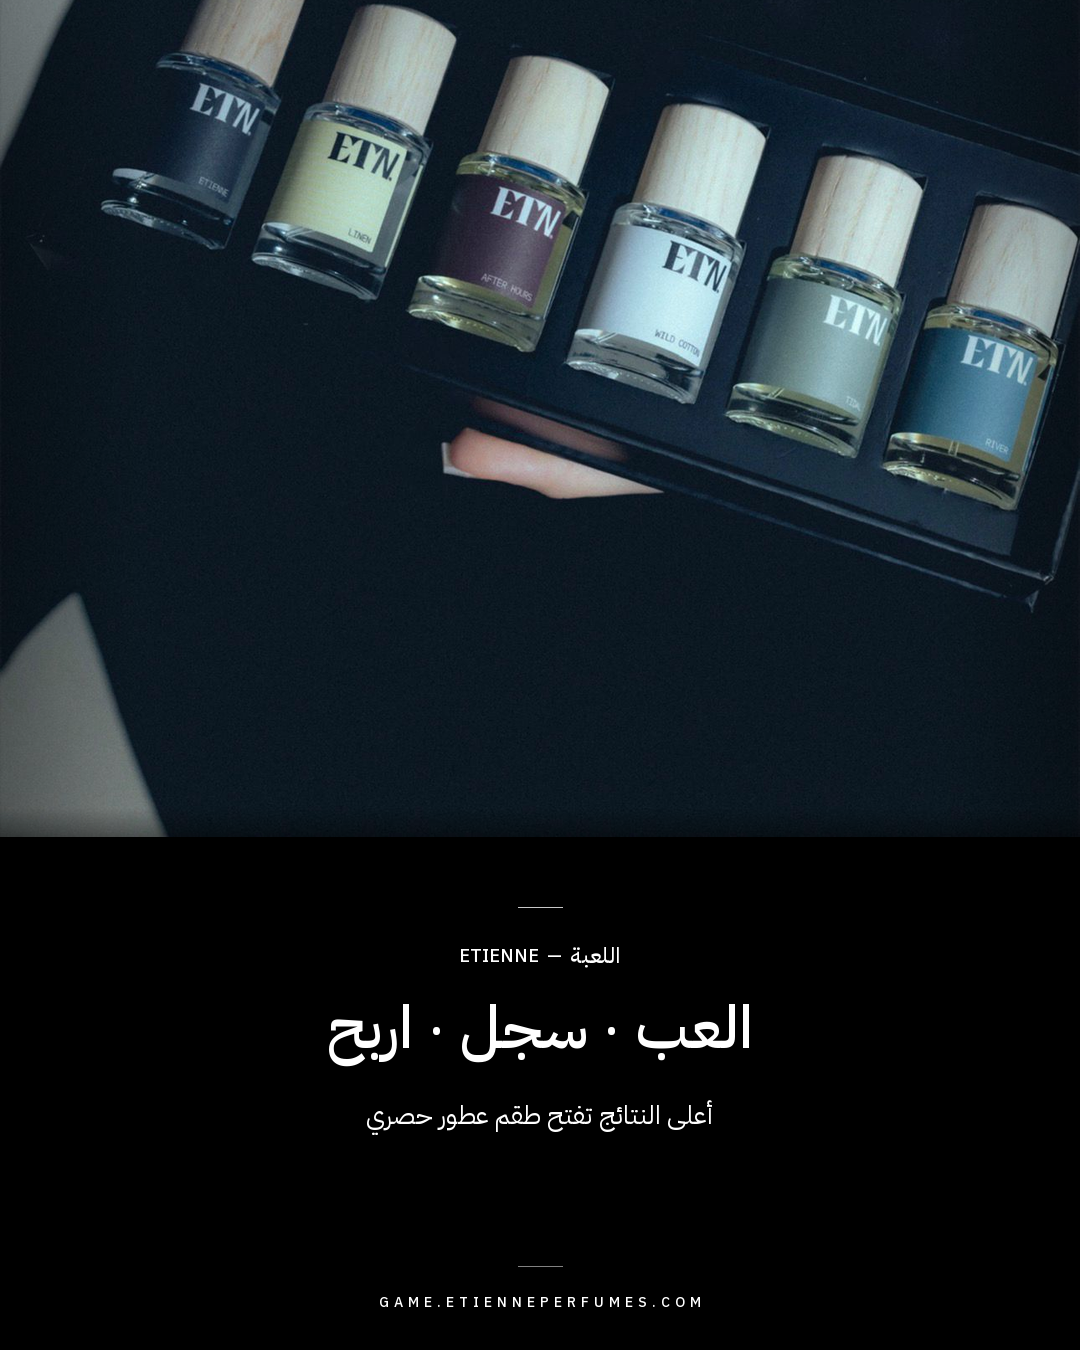
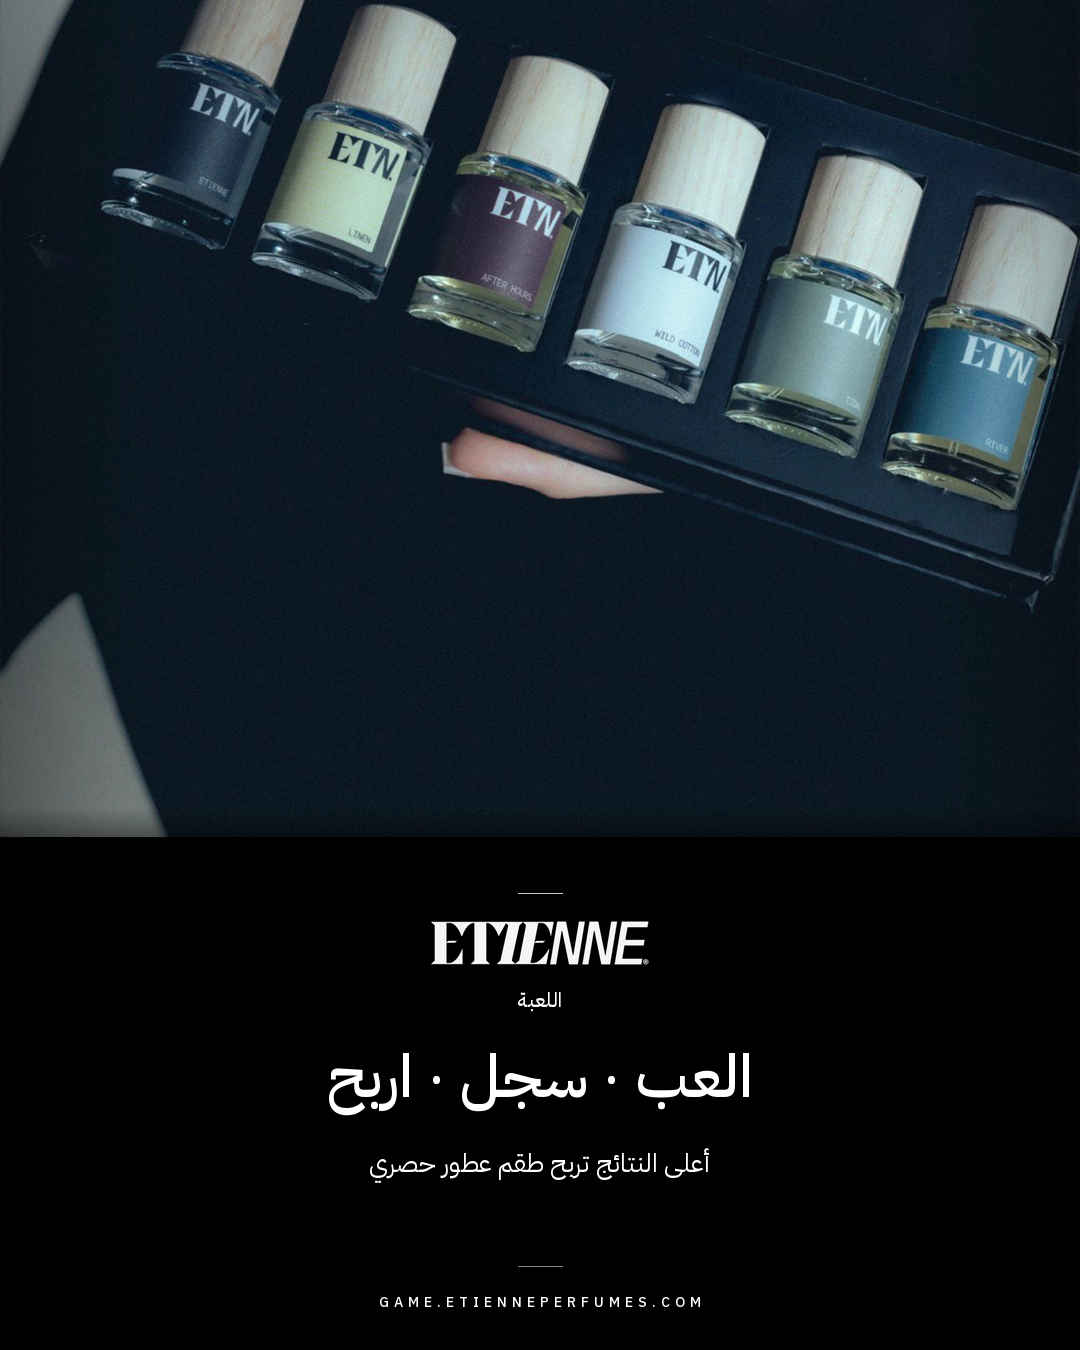
Hero post: drop in real ETIENNE wordmark + 'win' verb
Both EN and AR variants:
  - Replaced the letter-spaced 'ETIENNE' text in the eyebrow with
    the actual brand wordmark image (white-on-transparent PNG from
    /public/brand/). Logo gets its own moment in the type stack —
    centered, ~44px tall, sits below the divider as the dominant
    brand element. The Le Labo / Margiela aesthetic still holds; the
    real wordmark just makes the brand instantly recognisable at
    feed scale.
  - Subtle caption beneath the logo: 'THE GAME' / 'اللعبة' in Plex
    500 / 14-20px.
  - EN body verb tightened: 'Top scores unlock exclusive fragrance
    sets.' → 'Top scores win exclusive fragrance sets.'
  - AR body verb updated per direction: 'تفتح' → 'تربح'.
    'أعلى النتائج تربح طقم عطور حصري' — direct competitive verb,
    parallel to the EN.

Changed region(s): [[0.3056, 0.6533, 0.7028, 0.8711]]

diff --git a/tools/build-campaign-hero-ar.py b/tools/build-campaign-hero-ar.py
@@ -18,6 +18,7 @@ from pathlib import Path
 ROOT = Path(__file__).resolve().parents[1]
 PHOTO = ROOT / "tools" / "etienne-discovery-photo.jpeg"
 FONTS = ROOT / "tools" / "fonts"
+WORDMARK = ROOT / "public" / "brand" / "etienne-wordmark-white@2x.png"
 OUT = ROOT / "public" / "share" / "campaign-hero-ar.png"
 OUT.parent.mkdir(parents=True, exist_ok=True)
 
@@ -111,25 +112,32 @@ def draw_centered_ar_with_latin(d, ar_text: str, latin_text: str, y: int,
     d.text((x + lw + sw, y - 4), ar_shaped, font=ar_font, fill=fill)
 
 
+def paste_wordmark(img: Image.Image, target_height: int, top: int) -> None:
+    """Centre the ETIENNE wordmark PNG (white-on-transparent),
+    scaled to the requested height."""
+    mark = Image.open(WORDMARK).convert("RGBA")
+    mw, mh = mark.size
+    scale = target_height / mh
+    new_w = int(mw * scale)
+    mark = mark.resize((new_w, target_height), Image.LANCZOS)
+    img.paste(mark, ((W - new_w) // 2, top), mark)
+
+
 def main() -> None:
     img, photo_h = make_canvas()
-    d = ImageDraw.Draw(img, "RGBA")
 
-    rule_y = photo_h + 70
+    rule_y = photo_h + 56
+    d = ImageDraw.Draw(img, "RGBA")
     d.line([(W // 2 - 22, rule_y), (W // 2 + 22, rule_y)],
            fill=(255, 255, 255, 200))
 
-    # Eyebrow — keep brand wordmark in Latin Plex, "اللعبة" in Plex AR
-    draw_centered_ar_with_latin(
-        d,
-        "اللعبة",
-        "ETIENNE",
-        rule_y + 36,
-        plex_ar(500, 22),
-        plex(500, 18),
-        (255, 255, 255, 220),
-        sep="  —  ",
-    )
+    # ETIENNE wordmark image — replaces the letter-spaced text version
+    paste_wordmark(img, target_height=44, top=rule_y + 28)
+    d = ImageDraw.Draw(img, "RGBA")
+
+    # Eyebrow — اللعبة (Plex Arabic)
+    draw_centered(d, ar("اللعبة"),
+                  rule_y + 92, plex_ar(500, 20), (255, 255, 255, 220))
 
     # Hero — العب · سجّل · اربح
     # Plex Sans Arabic is missing U+00B7 (middle dot), U+2014 (em-dash)
@@ -152,7 +160,7 @@ def main() -> None:
     # First word sits on the RIGHT (read first in RTL), so paint from
     # the right edge inward.
     cursor = (W + total_w) // 2
-    hero_y = rule_y + 75
+    hero_y = rule_y + 138
     for i, word in enumerate(hero_words):
         ww = word_widths[i]
         cursor -= ww
@@ -161,13 +169,12 @@ def main() -> None:
             cursor -= sep_w
             d.text((cursor, hero_y + 6), sep, font=sep_font, fill=(255, 255, 255, 220))
 
-    # Body line — drop the trailing period (caused a stray glyph) and
-    # let the Arabic sentence stand on its own, parallel to the EN
-    # version's editorial cadence.
+    # Body line — تربح (win) replaces the previous تفتح (unlock) for a
+    # punchier competitive verb that mirrors the EN 'win' more directly.
     draw_centered(
         d,
-        ar("أعلى النتائج تفتح طقم عطور حصري"),
-        rule_y + 188,
+        ar("أعلى النتائج تربح طقم عطور حصري"),
+        rule_y + 250,
         plex_ar(400, 26),
         (255, 255, 255, 180),
     )

diff --git a/tools/build-campaign-hero.py b/tools/build-campaign-hero.py
@@ -25,6 +25,7 @@ from pathlib import Path
 ROOT = Path(__file__).resolve().parents[1]
 PHOTO = ROOT / "tools" / "etienne-discovery-photo.jpeg"
 FONTS = ROOT / "tools" / "fonts"
+WORDMARK = ROOT / "public" / "brand" / "etienne-wordmark-white@2x.png"
 OUT = ROOT / "public" / "share" / "campaign-hero-en.png"
 OUT.parent.mkdir(parents=True, exist_ok=True)
 
@@ -109,31 +110,47 @@ def draw_centered(d, text, y, font, fill, tracking_em: float = 0):
         x += widths[i] + extra
 
 
+def paste_wordmark(img: Image.Image, target_height: int, top: int) -> None:
+    """Centre the actual ETIENNE wordmark PNG (white-on-transparent),
+    scaled to the requested height."""
+    mark = Image.open(WORDMARK).convert("RGBA")
+    mw, mh = mark.size
+    scale = target_height / mh
+    new_w = int(mw * scale)
+    mark = mark.resize((new_w, target_height), Image.LANCZOS)
+    img.paste(mark, ((W - new_w) // 2, top), mark)
+
+
 def main() -> None:
     img, photo_h = make_canvas()
-    d = ImageDraw.Draw(img, "RGBA")
 
     # ---- divider above the type stack ---------------------------------
-    rule_y = photo_h + 70
+    rule_y = photo_h + 56
+    d = ImageDraw.Draw(img, "RGBA")
     d.line([(W // 2 - 22, rule_y), (W // 2 + 22, rule_y)],
            fill=(255, 255, 255, 200))
 
-    # ---- eyebrow: ETIENNE — THE GAME ---------------------------------
-    # Le Labo-style spaced caps, very small.
-    draw_centered(d, "ETIENNE — THE GAME",
-                  rule_y + 36, plex(500, 18), (255, 255, 255, 220),
-                  tracking_em=0.32)
+    # ---- ETIENNE logo (wordmark image) — gets its own moment ---------
+    # Replaces the letter-spaced 'ETIENNE' text. The stylised cut-through
+    # E's and decorative I make the brand mark instantly recognisable
+    # at IG-feed scale.
+    paste_wordmark(img, target_height=44, top=rule_y + 28)
+    d = ImageDraw.Draw(img, "RGBA")
+
+    # ---- eyebrow: THE GAME -------------------------------------------
+    draw_centered(d, "THE GAME",
+                  rule_y + 96, plex(500, 14), (255, 255, 255, 200),
+                  tracking_em=0.42)
 
     # ---- main lockup: PLAY · SCORE · WIN -----------------------------
-    # Editorial mid-weight, generous letter-spacing. NOT advertising-bold.
     draw_centered(d, "PLAY  ·  SCORE  ·  WIN",
-                  rule_y + 88, plex(500, 48), (255, 255, 255, 255),
+                  rule_y + 142, plex(500, 48), (255, 255, 255, 255),
                   tracking_em=0.18)
 
     # ---- italic body line --------------------------------------------
     draw_centered(d,
-                  "Top scores unlock exclusive fragrance sets.",
-                  rule_y + 168, plex(400, 22, italic=True),
+                  "Top scores win exclusive fragrance sets.",
+                  rule_y + 222, plex(400, 22, italic=True),
                   (255, 255, 255, 175))
 
     # ---- bottom rule + URL -------------------------------------------
